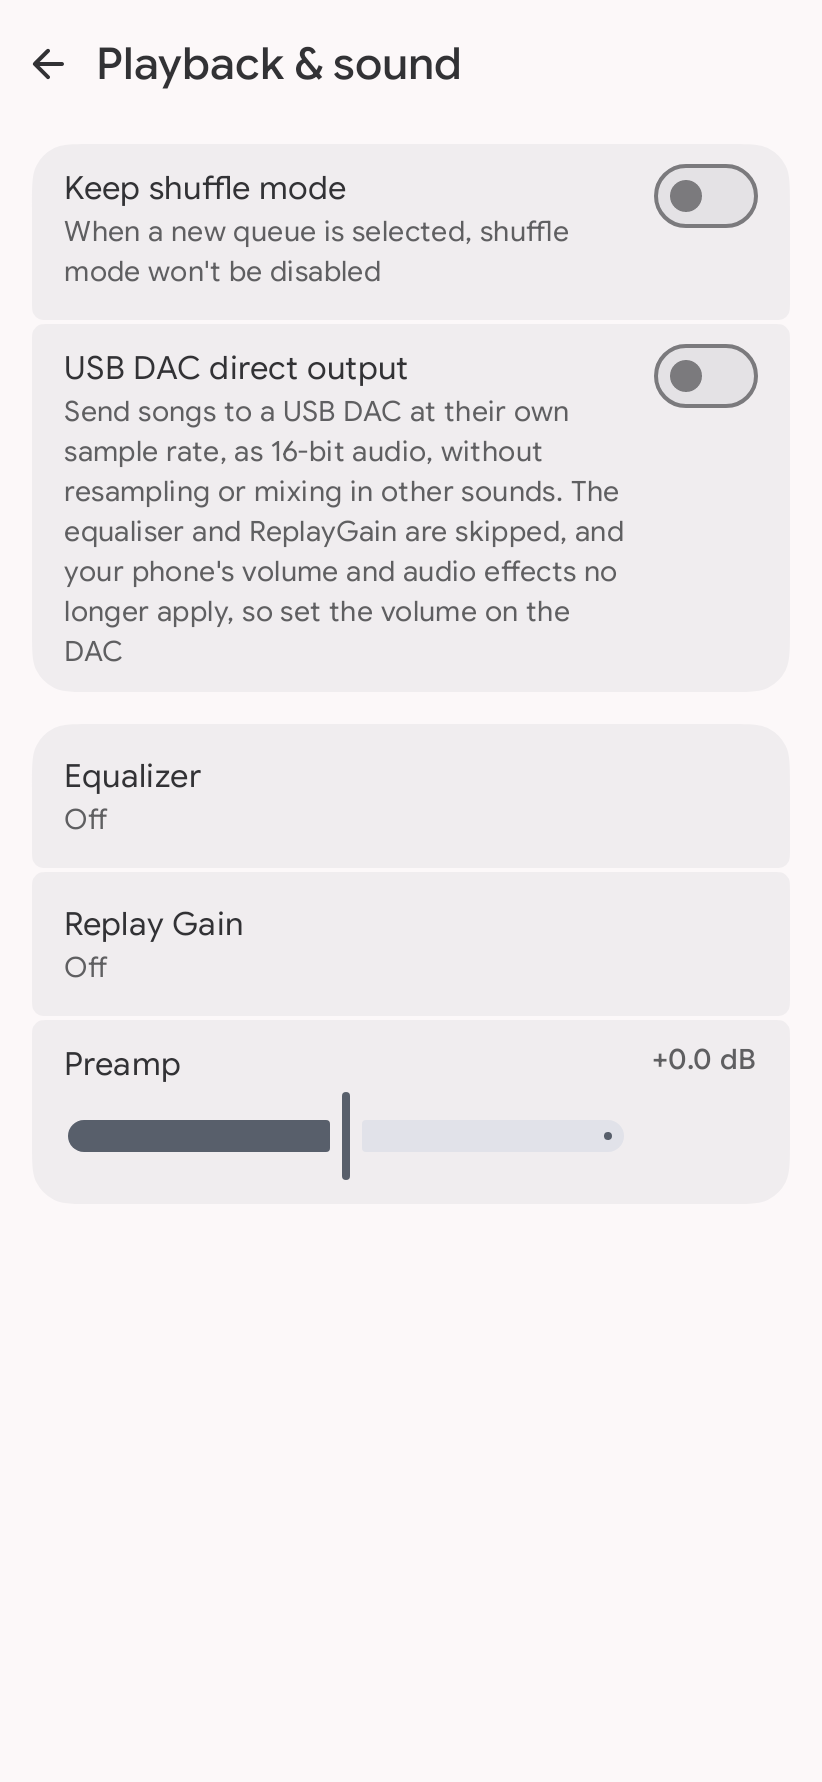
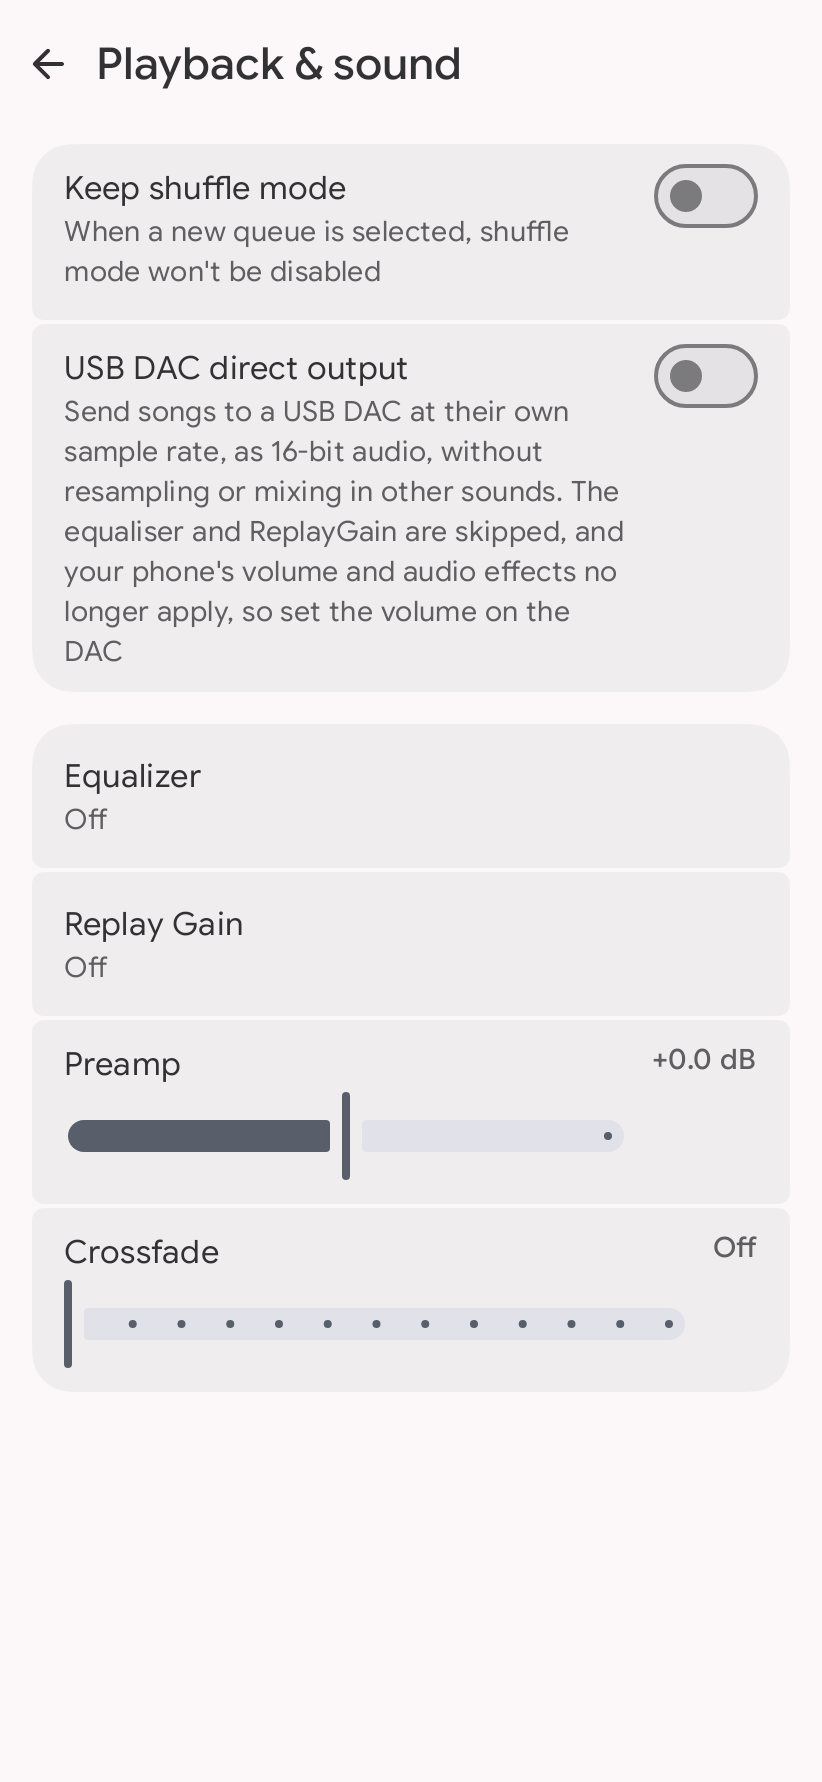
feat(settings): crossfade slider in Playback settings, off to 12 s (#570)
Changelog: crossfade setting

Changed region(s): [[0.0608, 0.679, 0.8516, 0.7716], [0.882, 0.679, 0.9124, 0.7099]]

diff --git a/android/app/src/test/java/com/simplecityapps/shuttle/ui/screens/settings/SettingsRobot.kt b/android/app/src/test/java/com/simplecityapps/shuttle/ui/screens/settings/SettingsRobot.kt
@@ -1,6 +1,7 @@
 package com.simplecityapps.shuttle.ui.screens.settings
 
 import androidx.compose.runtime.getValue
+import androidx.compose.ui.test.assertCountEquals
 import androidx.compose.ui.test.assertIsDisplayed
 import androidx.compose.ui.test.assertIsEnabled
 import androidx.compose.ui.test.assertIsNotEnabled
@@ -10,6 +11,7 @@ import androidx.compose.ui.test.hasClickAction
 import androidx.compose.ui.test.hasScrollAction
 import androidx.compose.ui.test.hasText
 import androidx.compose.ui.test.junit4.ComposeContentTestRule
+import androidx.compose.ui.test.onAllNodesWithText
 import androidx.compose.ui.test.onNodeWithContentDescription
 import androidx.compose.ui.test.onNodeWithText
 import androidx.compose.ui.test.performClick
@@ -113,6 +115,13 @@ class SettingsRobot(private val rule: ComposeContentTestRule) {
     fun assertDisplayed(text: String) {
         scrollTo(text)
         rule.onNodeWithText(text).assertIsDisplayed()
+    }
+
+    fun assertTextCount(
+        text: String,
+        count: Int
+    ) {
+        rule.onAllNodesWithText(text).assertCountEquals(count)
     }
 
     fun assertDialogDisplayed(text: String) {

diff --git a/android/app/src/test/java/com/simplecityapps/shuttle/ui/screens/settings/SettingsViewModelTest.kt b/android/app/src/test/java/com/simplecityapps/shuttle/ui/screens/settings/SettingsViewModelTest.kt
@@ -2,6 +2,7 @@ package com.simplecityapps.shuttle.ui.screens.settings
 
 import com.simplecityapps.mediaprovider.StreamingBitrateCap
 import com.simplecityapps.mediaprovider.settings.LibrarySettings
+import com.simplecityapps.playback.settings.PlaybackSettings
 import com.simplecityapps.shuttle.persistence.GeneralPreferenceManager
 import com.simplecityapps.shuttle.persistence.InMemoryKeyValueStore
 import com.simplecityapps.shuttle.settings.AppearanceSettings
@@ -118,6 +119,17 @@ class SettingsViewModelTest {
         advanceTimeBy(SettingsViewModel.SLIDER_SETTLE_MILLIS + 1)
 
         effects.changes shouldBe listOf(AppearanceSettings.WidgetBackgroundOpacity.key to 61)
+    }
+
+    @Test
+    fun `the crossfade slider stores whole seconds in milliseconds`() = runTest(mainDispatcherRule.testDispatcher) {
+        val viewModel = viewModel()
+        val slider = item<SettingItem.Slider<*>>(PlaybackSettings.CrossfadeDuration.key)
+
+        viewModel.onSliderChange(slider, 6000f)
+        runCurrent()
+
+        store.preference(PlaybackSettings.CrossfadeDuration).value shouldBe 6000
     }
 
     @Test

diff --git a/android/app/src/test/java/com/simplecityapps/shuttle/ui/screens/settings/SettingsScreenTest.kt b/android/app/src/test/java/com/simplecityapps/shuttle/ui/screens/settings/SettingsScreenTest.kt
@@ -280,6 +280,25 @@ class SettingsScreenTest {
     }
 
     @Test
+    fun `crossfade reads Off at zero`() {
+        robot.setDestinationContent(SettingsDestination.PlaybackAndSound)
+
+        robot.assertDisplayed("Crossfade")
+        robot.assertTextCount("Off", 3)
+    }
+
+    @Test
+    fun `crossfade shows its length in seconds`() {
+        robot.setDestinationContent(
+            SettingsDestination.PlaybackAndSound,
+            SettingsUiState(values = mapOf(PlaybackSettings.CrossfadeDuration.key to 6000))
+        )
+
+        robot.assertDisplayed("6 s")
+        robot.assertTextCount("Off", 2)
+    }
+
+    @Test
     fun `playback opens the equalizer`() {
         robot.setDestinationContent(SettingsDestination.PlaybackAndSound)
 

diff --git a/android/app/src/main/java/com/simplecityapps/shuttle/ui/screens/settings/model/AndroidSettingsCatalog.kt b/android/app/src/main/java/com/simplecityapps/shuttle/ui/screens/settings/model/AndroidSettingsCatalog.kt
@@ -145,6 +145,13 @@ object AndroidSettingsCatalog : SettingsCatalog {
                         range = -MAX_REPLAY_GAIN_PREAMP_DB.toFloat()..MAX_REPLAY_GAIN_PREAMP_DB.toFloat(),
                         steps = 0,
                         fromFloat = { it }
+                    ),
+                    SettingItem.Slider(
+                        setting = PlaybackSettings.CrossfadeDuration,
+                        title = StringKey.PREF_CROSSFADE_TITLE,
+                        range = 0f..12_000f,
+                        steps = 11,
+                        fromFloat = { it.roundToInt() }
                     )
                 )
             )

diff --git a/android/playback/core/src/commonMain/kotlin/com/simplecityapps/playback/settings/PlaybackSettings.kt b/android/playback/core/src/commonMain/kotlin/com/simplecityapps/playback/settings/PlaybackSettings.kt
@@ -35,8 +35,8 @@ class PlaybackSettings @Inject constructor(
         val PlaybackSpeed = Setting.float("playback_speed", 1f)
 
         /**
-         * How long one song fades into the next, in ms; 0 is off. A proof of concept with no UI yet (#97): a change
-         * applies to items prepared after it, see docs/architecture/crossfade.md.
+         * How long one song fades into the next, in ms; 0 is off. Set from the Playback settings slider (#570): a change
+         * applies from the next song, see docs/architecture/crossfade.md.
          */
         val CrossfadeDuration = Setting.int("crossfade_duration_ms", 0)
     }

diff --git a/android/app/src/main/java/com/simplecityapps/shuttle/ui/text/UiTextResources.kt b/android/app/src/main/java/com/simplecityapps/shuttle/ui/text/UiTextResources.kt
@@ -111,6 +111,7 @@ val StringKey.resId: Int
         StringKey.DSP_REPLAY_GAIN_ALBUM -> R.string.dsp_replay_gain_album
         StringKey.DSP_REPLAY_GAIN_OFF -> R.string.dsp_replay_gain_off
         StringKey.DSP_PREAMP -> R.string.dsp_preamp
+        StringKey.PREF_CROSSFADE_TITLE -> R.string.pref_crossfade_title
         StringKey.PREF_REPORT_PLAYBACK_TITLE -> R.string.pref_report_playback_title
         StringKey.PREF_REPORT_PLAYBACK_SUMMARY -> R.string.pref_report_playback_summary
         StringKey.PREF_DOWNLOAD_WIFI_ONLY_TITLE -> R.string.pref_download_wifi_only_title

diff --git a/android/app/src/main/java/com/simplecityapps/shuttle/ui/screens/settings/SettingsScreens.kt b/android/app/src/main/java/com/simplecityapps/shuttle/ui/screens/settings/SettingsScreens.kt
@@ -396,6 +396,7 @@ private fun sliderValueLabel(
     value: Float
 ): String? = when (item.setting) {
     PlaybackSettings.PreAmpGain -> String.format(Locale.getDefault(), "%+.1f dB", value)
+    PlaybackSettings.CrossfadeDuration -> if (value < 500f) "Off" else "${(value / 1000f).roundToInt()} s"
     AppearanceSettings.WidgetBackgroundOpacity -> "${value.roundToInt()}%"
     else -> null
 }

diff --git a/android/presentation/src/commonMain/kotlin/com/simplecityapps/shuttle/ui/text/StringKey.kt b/android/presentation/src/commonMain/kotlin/com/simplecityapps/shuttle/ui/text/StringKey.kt
@@ -91,6 +91,7 @@ enum class StringKey {
     DSP_REPLAY_GAIN_ALBUM,
     DSP_REPLAY_GAIN_OFF,
     DSP_PREAMP,
+    PREF_CROSSFADE_TITLE,
     PREF_REPORT_PLAYBACK_TITLE,
     PREF_REPORT_PLAYBACK_SUMMARY,
     PREF_DOWNLOAD_WIFI_ONLY_TITLE,

diff --git a/docs/testing/device-checks.md b/docs/testing/device-checks.md
@@ -366,3 +366,9 @@ previous and new outputs, and where each pause came from.
 - [ ] Signed in to a Jellyfin, Emby or Plex server, download a song and wait for it to complete. Turn on airplane mode (Wi-Fi and mobile data off), then play the downloaded song: it starts and plays to the end, and seeking within it works. Repeat for a song queued after it that is also downloaded, to check the next track starts.
 - [ ] Still in airplane mode, play a song that was not downloaded: it fails to play with the usual error and the queue skips on, rather than hanging.
 - [ ] Back online, play the downloaded song again and a non-downloaded one: both play, and the downloads list shows the same size as before (streaming adds nothing to the download cache).
+
+## Crossfade (#570)
+- [ ] Settings, Playback: set Crossfade to 6 s and play two songs from different albums: the first fades out as the second fades in near the end. Songs that are consecutive on the same album still play gaplessly with no fade. While casting, no fade happens.
+
+## iOS Now Playing (#747)
+- [ ] iOS Now Playing More button press highlight matches the heart (#747)
